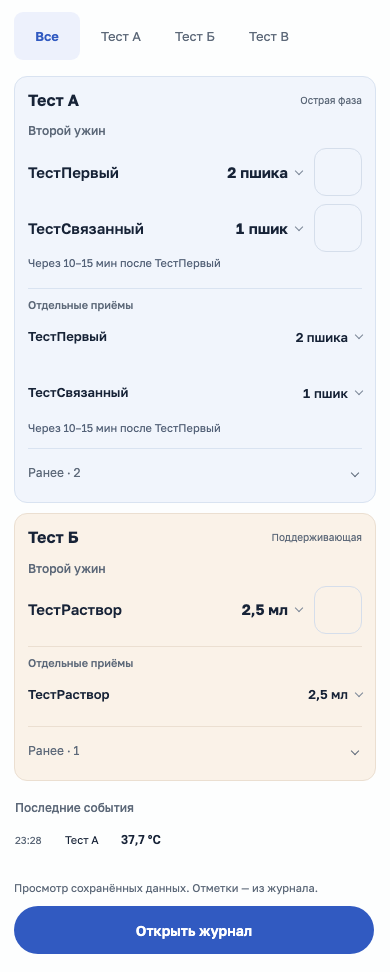
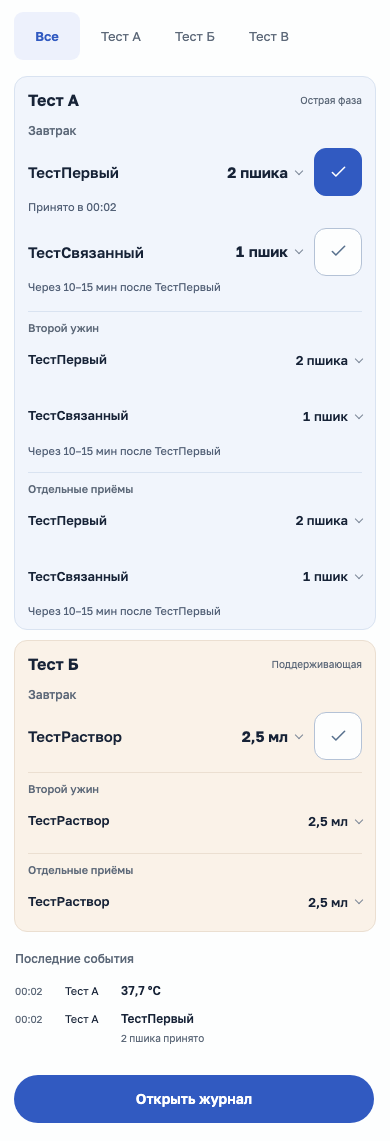
Separate prescription details and enable persistent family intake checkboxes

diff --git a/site/public/family-preview.js b/site/public/family-preview.js
@@ -1,33 +1,61 @@
 import {careDrug,careFamily,escapeHTML as e} from './family-card.js';
 import {familyPreview} from './family-preview-model.js';
-const root=document.querySelector('#family'),timeZone='Europe/Chisinau';
-let token='',model,selected='all',loading=false;
-async function get(path,retry=false){
+const root=document.querySelector('#family'),dialog=document.querySelector('#family-info'),statusNode=document.querySelector('#family-status'),timeZone='Europe/Chisinau';
+let token='',model,selected='all',loading=false,saving=false;
+async function api(path,body=null,retry=false){
   if(!token){const r=await fetch('/api/session');if(!r.ok)throw Error('Не удалось открыть сессию');token=(await r.json()).token;}
-  const r=await fetch('/api'+path,{headers:{'X-Medika-Token':token}});
-  if(r.status===403&&!retry){token='';return get(path,true);}
-  if(!r.ok)throw Error('Не удалось прочитать сохранённые данные');return r.json();
+  let r;try{r=await fetch('/api'+path,{method:body?'POST':'GET',headers:{'X-Medika-Token':token,...(body?{'Content-Type':'application/json'}:{})},...(body?{body:JSON.stringify(body)}:{})});}
+  catch{const error=Error('Нет связи с журналом');error.uncertain=Boolean(body);throw error;}
+  if(r.status===403&&!retry){token='';return api(path,body,true);}
+  let result;try{result=await r.json();}catch{const error=Error('Не удалось получить ответ журнала');error.uncertain=Boolean(body);throw error;}
+  if(!r.ok)throw Error(result.error||'Не удалось обратиться к журналу');return result;
 }
-const rows=(group,later=false)=>group.rows.map(r=>careDrug(r.name,r.dose,r.instruction,{later,after:r.after,readOnly:true,taken:r.taken,status:r.status})).join('');
+const allRows=()=>model?.cards.flatMap(p=>[...(p.current?.rows||[]),...p.later.flatMap(g=>g.rows),...p.earlier.flatMap(g=>g.rows),...p.prn])||[];
+const findRow=key=>allRows().find(r=>r.key===key);
+function message(text){statusNode.textContent=text;clearTimeout(message.timer);message.timer=setTimeout(()=>statusNode.textContent='',7000);}
+const renderRow=(r,later=false)=>careDrug(r.name,r.dose,'',{later,after:r.after,readOnly:!r.canTake||!r.key,taken:r.taken,status:r.status,fields:r.fields,moreId:r.info.fields.length||r.info.notes.length||r.info.source?r.key:'',actionKey:r.canTake?r.key:''});
+const rows=(group,later=false)=>group.rows.map(r=>renderRow(r,later)).join('');
 const laterGroup=group=>`<section class="care-later"><h3>${e(group.label)}</h3>${rows(group,true)}</section>`;
 function card(p){
   const earlier=p.earlier.length?`<details class="care-earlier"><summary>Ранее · ${p.earlier.reduce((n,g)=>n+g.rows.length,0)}</summary>${p.earlier.map(laterGroup).join('')}</details>`:'';
-  return `<section class="care-person color-${p.color}" data-person="${e(p.id)}"><header class="care-person-head"><h2>${e(p.name)}</h2>${p.current||p.prn.length?`<span class="care-phase">${e(p.phase)}</span>`:''}</header>${p.current?`<section class="care-current"><h3 class="care-current-slot">${e(p.current.label)}</h3>${rows(p.current)}</section>${p.later.map(laterGroup).join('')}${earlier}`:'<p class="family-empty">Нет действующих плановых назначений</p>'}${p.prn.length?`<section class="care-later"><h3>По необходимости</h3>${p.prn.map(r=>careDrug(r.name,r.dose,r.instruction,{later:true,readOnly:true})).join('')}</section>`:''}</section>`;
+  return `<section class="care-person color-${p.color}" data-person="${e(p.id)}"><header class="care-person-head"><h2>${e(p.name)}</h2>${p.current||p.prn.length?`<span class="care-phase">${e(p.phase)}</span>`:''}</header>${p.current?`<section class="care-current"><h3 class="care-current-slot">${e(p.current.label)}</h3>${rows(p.current)}</section>${p.later.map(laterGroup).join('')}${earlier}`:'<p class="family-empty">Нет действующих плановых назначений</p>'}${p.prn.length?`<section class="care-later"><h3>По необходимости</h3>${p.prn.map(r=>renderRow(r,true)).join('')}</section>`:''}</section>`;
 }
 function render(focus=false){
   if(!model)return;
   if(!model.cards.some(p=>p.id===selected))selected='all';
   const cards=model.cards.filter(p=>selected==='all'?p.current||p.prn.length:p.id===selected),names=new Map(model.cards.map(p=>[p.id,p.name])),history=model.history.filter(r=>selected==='all'||r.personId===selected).slice(0,8);
-  root.innerHTML=`${careFamily(model.cards,selected)}<main class="care-board"><h1 class="sr-only">Назначения семьи</h1><div class="care-people">${cards.length?cards.map(card).join(''):'<p class="family-empty">Действующих назначений нет</p>'}</div><section class="care-history"><h2>Последние события</h2>${history.length?history.map(r=>`<div class="care-event"><time>${e(r.time)}</time><span>${e(names.get(r.personId)||'')}</span><strong>${e(r.name)}${r.detail?`<small>${e(r.detail)}</small>`:''}</strong></div>`).join(''):'<p class="family-empty">Событий пока нет</p>'}</section></main><footer class="family-preview-footer"><p>Просмотр сохранённых данных. Отметки — из журнала.</p><a class="voice" href="/">Открыть журнал</a></footer>`;
+  root.innerHTML=`${careFamily(model.cards,selected)}<main class="care-board"><h1 class="sr-only">Назначения семьи</h1><div class="care-people">${cards.length?cards.map(card).join(''):'<p class="family-empty">Действующих назначений нет</p>'}</div><section class="care-history"><h2>Последние события</h2>${history.length?history.map(r=>`<div class="care-event"><time>${e(r.time)}</time><span>${e(names.get(r.personId)||'')}</span><strong>${e(r.name)}${r.detail?`<small>${e(r.detail)}</small>`:''}</strong></div>`).join(''):'<p class="family-empty">Событий пока нет</p>'}</section></main><footer class="family-preview-footer"><a class="voice" href="/">Открыть журнал</a></footer>`;
+  root.setAttribute('aria-busy',String(saving));if(saving)root.querySelectorAll('input,button').forEach(input=>input.disabled=true);
   if(focus)[...root.querySelectorAll('[name="care-person"]')].find(input=>input.value===selected)?.focus({preventScroll:true});
 }
+async function refresh(){const now=new Date(),date=now.toLocaleDateString('sv-SE',{timeZone});const [state,schedule]=await Promise.all([api('/state'),api('/schedule?date='+date)]);model=familyPreview(state,schedule,{date,now,timeZone});render();}
+function loadError(text){model=null;root.setAttribute('aria-busy','false');message('');root.innerHTML=`<main class="family-loading" role="alert"><p>${e(text)}</p><button type="button" data-retry>Обновить</button><a href="/">Открыть журнал</a></main>`;}
 async function load(){
-  if(loading)return;loading=true;
-  try{const now=new Date(),date=now.toLocaleDateString('sv-SE',{timeZone});const [state,schedule]=await Promise.all([get('/state'),get('/schedule?date='+date)]);model=familyPreview(state,schedule,{date,now,timeZone});render();}
-  catch(error){root.innerHTML=`<main class="family-loading" role="alert"><p>${e(error.message)}</p><button type="button" data-retry>Повторить</button><a href="/">Открыть журнал</a></main>`;}
+  if(loading||saving)return;loading=true;if(model){root.setAttribute('aria-busy','true');root.querySelectorAll('input,button').forEach(control=>control.disabled=true);}
+  try{await refresh();}
+  catch(error){loadError(error.message);}
   finally{loading=false;}
 }
-root.addEventListener('change',event=>{if(event.target.name==='care-person'){selected=event.target.value;render(true);}});
-root.addEventListener('click',event=>{if(event.target.closest('[data-retry]'))load();});
+async function take(input){
+  const row=findRow(input.dataset.take);if(!row)return;
+  if(saving||loading||!row.canTake){input.checked=row.taken;return;}
+  if(model.date!==new Date().toLocaleDateString('sv-SE',{timeZone})){input.checked=row.taken;await load();message('Расписание обновлено. Выберите приём заново.');return;}
+  const checked=input.checked,key=row.key,occurredAt=new Date().toISOString();saving=true;message('');root.setAttribute('aria-busy','true');root.querySelectorAll('input,button').forEach(control=>control.disabled=true);
+  let error=null;
+  try{if(checked)await api('/events',{rxId:row.rxId,rxVersion:row.rxVersion,key,date:model.date,status:'taken',dose:row.plannedDose,occurredAt});else await api('/events/'+row.eventId+'/void',{version:row.eventVersion,reason:'Отменено на семейной доске'});}
+  catch(e){error=e;}
+  try{await refresh();message(error?(error.uncertain?'Ответ на запись не получен. Состояние обновлено из журнала.':error.message):checked?'Приём отмечен':'Отметка отменена');}
+  catch{loadError('Не удалось обновить журнал. Отметка могла сохраниться — обновите данные перед повтором.');}
+  finally{saving=false;if(model){render();[...root.querySelectorAll('[data-take]')].find(node=>node.dataset.take===key)?.focus({preventScroll:true});}}
+}
+function medicineInfo(key){
+  const row=findRow(key);if(!row)return;
+  const fields=list=>`<dl class="prescription-fields">${list.map(([label,value])=>`<div><dt>${e(label)}</dt><dd>${e(value)}</dd></div>`).join('')}</dl>`;
+  dialog.innerHTML=`<header><h2 id="family-info-title">${e(row.name)}</h2><button type="button" data-close-info autofocus>Закрыть</button></header>${row.info.fields.length?`<section><h3>Данные препарата</h3>${fields(row.info.fields)}</section>`:''}${row.info.notes.length?`<section><h3>Условия назначения</h3>${fields(row.info.notes)}</section>`:''}${row.info.source?`<details class="medicine-source"><summary>Исходная запись врача</summary><p>${e(row.info.source)}</p></details>`:''}`;
+  dialog.showModal();
+}
+dialog.addEventListener('click',event=>{if(event.target.closest('[data-close-info]'))dialog.close();});
+root.addEventListener('change',event=>{if(event.target.name==='care-person'){if(saving)return;selected=event.target.value;render(true);}else if(event.target.matches('[data-take]'))take(event.target);});
+root.addEventListener('click',event=>{if(event.target.closest('[data-retry]'))load();const more=event.target.closest('[data-medicine-info]');if(more&&!saving)medicineInfo(more.dataset.medicineInfo);});
 document.addEventListener('visibilitychange',()=>{if(document.visibilityState==='visible')load();});
 load();

diff --git a/site/public/family-preview-model.js b/site/public/family-preview-model.js
@@ -1,4 +1,5 @@
 import {prescriptionSummary,prescriptionSequence} from './prescription-summary.js';
+import {medicineForms} from './medicine-forms.js';
 
 export const phaseLabel=phase=>({acute:'Острая фаза',prevention:'Поддерживающая'}[phase]||'Фаза не указана');
 export function shortDose(row){
@@ -9,6 +10,12 @@ export function shortDose(row){
 const localDate=(instant,zone)=>new Date(instant).toLocaleDateString('sv-SE',{timeZone:zone});
 const localTime=(instant,zone)=>new Date(instant).toLocaleTimeString('ru-RU',{timeZone:zone,hour:'2-digit',minute:'2-digit'});
 const clock=value=>/^\d{2}:\d{2}$/.test(value||'')?value:'';
+const showDate=value=>value?.split('-').reverse().join('.')||'';
+function prescriptionFields(rx,item,group){
+  const summary=prescriptionSummary(rx),sequence=prescriptionSequence(rx);
+  return [['Доза',shortDose(rx)+(rx.doseScope==='each-nostril'?' в каждую ноздрю':'')],['Кратность',summary.frequency==='Частота не указана'?'':summary.frequency],['Приём',[group.label,item.relation].filter(Boolean).join(' · ')],['Порядок',sequence],['Время',item.anchor==='clock'?clock(item.displayTime)||clock(item.time):''],['Курс',[rx.startDate?`с ${showDate(rx.startDate)}`:'',rx.endDate?`по ${showDate(rx.endDate)}`:''].filter(Boolean).join(' ')]].filter(([,value])=>value);
+}
+function medicineInfo(rx){return {fields:[['Форма',medicineForms[rx.form]?.name||rx.form],['Концентрация',rx.strength],['Способ применения',rx.route]].filter(([,value])=>value),notes:[['Условия',rx.conditions],['Цель',rx.purpose]].filter(([,value])=>value),source:rx.sourceText||''};}
 
 export function familyPreview(state,schedule,{date,now=new Date(),timeZone='Europe/Chisinau'}={}){
   date??=localDate(now,timeZone);
@@ -24,17 +31,18 @@ export function familyPreview(state,schedule,{date,now=new Date(),timeZone='Euro
       const group=groups.get(key),at=clock(item.displayTime)||clock(item.time);
       if(at&&(!group.time||at<group.time))group.time=at;
       const event=item.event,shown=event?.status==='taken'?{...item,name:event.name,dose:event.actualDose||event.dose,unit:event.unit,doseScope:event.doseScope}:item;
-      const full=prescriptionSummary(shown),sequence=prescriptionSequence(rx),exact=anchor==='clock'&&at?`Назначенное время: ${at}`:'';
-      group.rows.push({key:item.key,name:shown.name,dose:shortDose(shown),taken:event?.status==='taken',status:event?({taken:`Принято в ${localTime(event.occurredAt,event.timeZone||timeZone)}`,skipped:'Пропущено',deferred:'Отложено'}[event.status]||''):'',after:sequence||(rx.type==='interval'&&rx.intervalHours?`Каждые ${rx.intervalHours} ч`:''),instruction:[full.dose,item.relation,exact,rx.strength,rx.sourceText,rx.conditions,rx.purpose].filter(Boolean).join('\n')});
+      const sequence=prescriptionSequence(rx),fields=prescriptionFields(rx,item,group);
+      if(event?.status==='taken'&&(String(shown.dose)!==String(rx.dose)||shown.unit!==rx.unit))fields.push(['Фактически',shortDose(shown)]);
+      group.rows.push({key:item.key,rxId:rx.id,rxVersion:rx.version,plannedDose:rx.dose,eventId:event?.id,eventVersion:event?.version,canTake:Boolean(item.key)&&anchor!=='unassigned'&&(!event||event.status==='taken'),name:shown.name,dose:shortDose(shown),taken:event?.status==='taken',status:event?({taken:`Принято в ${localTime(event.occurredAt,event.timeZone||timeZone)}`,skipped:'Пропущено',deferred:'Отложено'}[event.status]||''):'',after:sequence||(rx.type==='interval'&&rx.intervalHours?`Каждые ${rx.intervalHours} ч`:''),fields,info:medicineInfo(rx)});
     }
     const ordered=[...groups.values()].sort((a,b)=>(a.time||'99:99').localeCompare(b.time||'99:99'));
     const nowTime=localTime(now,timeZone);let currentIndex=0;
     // Keep the last started slot visible until the next one begins; no catch-up recommendation.
     for(let i=0;i<ordered.length;i++)if(ordered[i].time&&ordered[i].time<=nowTime)currentIndex=i;
-    const prn=(schedule.prn||[]).filter(r=>r.personId===person.id&&r.confirmed&&!r.archived).map(r=>({name:r.name,dose:shortDose(r),instruction:[prescriptionSummary(r).dose,r.sourceText,r.conditions].filter(Boolean).join('\n')}));
+    const prn=(schedule.prn||[]).filter(r=>r.personId===person.id&&r.confirmed&&!r.archived).map(r=>({key:r.id,rxId:r.id,name:r.name,dose:shortDose(r),fields:prescriptionFields(r,{}, {label:'По необходимости'}),info:medicineInfo(r)}));
     return {id:person.id,name:person.displayName||person.name,phase:phaseLabel(person.carePhase),color:['blue','peach','mint','lilac'][index%4],current:ordered[currentIndex]||null,later:ordered.slice(currentIndex+1),earlier:ordered.slice(0,currentIndex),prn};
   });
   const records=[...(state.activities||[]),...(state.temperatures||[]).map(r=>({...r,kind:'temperature'})),...(state.events||[]).map(r=>({...r,kind:'medication',amount:r.actualDose||r.dose}))];
-  const history=records.filter(r=>r.status!=='void'&&Number.isFinite(Date.parse(r.occurredAt))&&Date.parse(r.occurredAt)<=Number(now)&&localDate(r.occurredAt,r.timeZone||timeZone)===date).sort((a,b)=>b.occurredAt.localeCompare(a.occurredAt)).map(r=>({personId:r.personId,time:localTime(r.occurredAt,r.timeZone||timeZone),name:r.kind==='temperature'?Number(r.celsius).toLocaleString('ru-RU',{minimumFractionDigits:1,maximumFractionDigits:2})+' °C':r.kind==='inhalation'?['Ингаляция',r.name].filter(Boolean).join(' · '):r.name||({diarrhea:'Диарея',vomiting:'Рвота',retching:'Позывы к рвоте',inhalation:'Ингаляция',other:'Событие'}[r.kind]||'Событие'),detail:[r.amount,r.unit,r.status==='skipped'?'Пропущено':r.status==='deferred'?'Отложено':r.kind==='medication'?'принято':''].filter(Boolean).join(' ')}));
+  const history=records.filter(r=>r.status!=='void'&&Number.isFinite(Date.parse(r.occurredAt))&&Date.parse(r.occurredAt)<=Number(now)&&localDate(r.occurredAt,r.timeZone||timeZone)===date).sort((a,b)=>b.occurredAt.localeCompare(a.occurredAt)).map(r=>({personId:r.personId,time:localTime(r.occurredAt,r.timeZone||timeZone),name:r.kind==='temperature'?Number(r.celsius).toLocaleString('ru-RU',{minimumFractionDigits:1,maximumFractionDigits:2})+' °C':r.kind==='inhalation'?['Ингаляция',r.name].filter(Boolean).join(' · '):r.name||({diarrhea:'Диарея',vomiting:'Рвота',retching:'Позывы к рвоте',inhalation:'Ингаляция',other:'Событие'}[r.kind]||'Событие'),detail:[r.amount?shortDose({dose:r.amount,unit:r.unit}):'',r.status==='skipped'?'Пропущено':r.status==='deferred'?'Отложено':r.kind==='medication'?'принято':''].filter(Boolean).join(' ')}));
   return {date,cards,history};
 }

diff --git a/site/public/family-card.js b/site/public/family-card.js
@@ -1,8 +1,9 @@
 export const escapeHTML=value=>String(value??'').replace(/[&<>"']/g,c=>({'&':'&amp;','<':'&lt;','>':'&gt;','"':'&quot;',"'":'&#39;'}[c]));
 const check='<svg viewBox="0 0 24 24" fill="none" stroke="currentColor" stroke-width="1.8" stroke-linecap="round" stroke-linejoin="round" aria-hidden="true"><path d="m5 12 4 4L19 6"/></svg>';
-export function careDrug(name,dose,instruction,{later=false,after='',readOnly=false,taken=false,status=''}={}){
+export function careDrug(name,dose,instruction,{later=false,after='',readOnly=false,taken=false,status='',fields=null,moreId='',actionKey=''}={}){
   const e=escapeHTML;
-  return `<div class="care-med${later?' care-med-later':''}"><details><summary><span class="care-med-name" data-drug-name>${e(name)}</span><strong class="care-dose">${e(dose)}</strong></summary><div class="care-instruction"><span>Назначение</span><p>${e(instruction)}</p></div></details>${later?'':`<label class="care-take${readOnly?' is-readonly':''}"><input type="checkbox" aria-label="${e(name)}: ${readOnly?(taken?'приём записан':'нет отметки в журнале'):'принято в макете'}"${readOnly?' disabled':''}${taken?' checked':''}><span>${check}</span></label>`}${after?`<p class="care-followup">${e(after)}</p>`:''}${status?`<p class="care-followup">${e(status)}</p>`:''}</div>`;
+  const content=fields?`<dl class="prescription-fields">${fields.map(([label,value])=>`<div><dt>${e(label)}</dt><dd>${e(value)}</dd></div>`).join('')}</dl>`:`<span>Назначение</span><p>${e(instruction)}</p>`;
+  return `<div class="care-med${later?' care-med-later':''}"><details><summary><span class="care-med-name" data-drug-name>${e(name)}</span><strong class="care-dose">${e(dose)}</strong></summary><div class="care-instruction">${content}${moreId?`<button type="button" class="medicine-more" data-medicine-info="${e(moreId)}">Препарат и источник</button>`:''}</div></details>${later?'':`<label class="care-take${readOnly?' is-readonly':''}"><input type="checkbox" aria-label="${e(name)}: ${actionKey?'принято':readOnly?(taken?'приём записан':'нет отметки в журнале'):'принято в макете'}"${actionKey?` data-take="${e(actionKey)}"`:''}${readOnly?' disabled':''}${taken?' checked':''}><span>${check}</span></label>`}${after?`<p class="care-followup">${e(after)}</p>`:''}${status?`<p class="care-followup">${e(status)}</p>`:''}</div>`;
 }
 export function careFamily(people=[{id:'alice',name:'Алиса'},{id:'danya',name:'Даня'},{id:'mom',name:'Мама'},{id:'dad',name:'Папа'}],selected='all'){
   return `<form class="care-family"><fieldset><legend class="sr-only">Человек</legend>${[{id:'all',name:'Все'},...people].map(p=>`<label><input class="sr-only" type="radio" name="care-person" value="${escapeHTML(p.id)}"${p.id===selected?' checked':''}><span>${escapeHTML(p.name)}</span></label>`).join('')}</fieldset></form>`;

diff --git a/site/public/design-study.css b/site/public/design-study.css
@@ -134,3 +134,23 @@
 .a1:has(input[value="all"]:checked) .care-person.color-mint{--person-surface:#edf7f3;--person-line:#d7e9df}
 .a1:has(input[value="all"]:checked) .care-person.color-lilac{--person-surface:#f3f1f9;--person-line:#e2ddef}
 @container screen (min-width:700px){.family-preview-footer{padding-left:24px;padding-right:24px}.family-live .care-event{grid-template-columns:48px 58px minmax(0,1fr)}}
+.prescription-fields{margin:0;font-size:13px;line-height:1.5}
+.prescription-fields>div{display:grid;grid-template-columns:86px minmax(0,1fr);gap:12px;padding:5px 0}
+.prescription-fields dt{color:#58687b}
+.prescription-fields dd{margin:0;color:#172337;overflow-wrap:anywhere}
+.medicine-more{min-height:48px;min-width:48px;display:block;margin-top:12px;padding:9px 12px;border:1px solid #cbd5e3;border-radius:8px;background:white;color:#315ac1;font:inherit;cursor:pointer}
+.medicine-more:focus-visible{outline:2px solid #315ac1;outline-offset:3px}
+#family-info{width:min(540px,calc(100% - 28px));max-height:88dvh;overflow:auto;padding:18px;border:1px solid #d1d9e5;border-radius:16px;color:#172337;background:white;font:14px/1.6 Golos,system-ui,sans-serif}
+#family-info::backdrop{background:#17233780}
+#family-info>header{display:flex;justify-content:space-between;align-items:center;gap:16px;margin-bottom:18px}
+#family-info h2{font-size:20px;line-height:1.3;font-weight:600}
+#family-info h3{font-size:14px;font-weight:600;margin-bottom:10px}
+#family-info .prescription-fields>div{grid-template-columns:110px minmax(0,1fr)}
+#family-info :focus-visible{outline:2px solid #315ac1;outline-offset:3px}
+#family-info>section+section{margin-top:18px}
+#family-info button{min-height:48px;min-width:76px;padding:8px 12px;flex-shrink:0;border:1px solid #cbd5e3;border-radius:8px;background:white;color:#315ac1;font:inherit;cursor:pointer}
+.medicine-source{margin-top:18px;border-top:1px solid #dfe5ed}
+.medicine-source>summary{min-height:48px;padding:12px 0;cursor:pointer}
+.medicine-source p{white-space:pre-wrap;overflow-wrap:anywhere;padding:4px 0 12px;color:#485970;font-size:13px}
+#family-status{position:fixed;bottom:max(16px,env(safe-area-inset-bottom));left:16px;right:16px;max-width:560px;margin:auto;z-index:10;background:#172337;color:white;border-radius:10px;padding:12px 16px;font-size:13px;line-height:1.5;pointer-events:none}
+#family-status:empty{display:none}

diff --git a/site/public/family-preview.html b/site/public/family-preview.html
@@ -1,5 +1,5 @@
 <!doctype html>
 <html lang="ru">
 <head><meta charset="utf-8"><meta name="viewport" content="width=device-width,initial-scale=1"><meta name="color-scheme" content="light"><meta name="theme-color" content="#fdfefe"><title>Медика · семья</title><link rel="icon" href="/icon.svg"><link rel="stylesheet" href="/design-study.css"><script src="/family-preview.js" type="module"></script></head>
-<body class="single family-preview"><div id="family" class="mock a1 family-live"><p class="family-loading" role="status">Загружаю назначения…</p></div></body>
+<body class="single family-preview"><div id="family" class="mock a1 family-live"><p class="family-loading" role="status">Загружаю назначения…</p></div><div id="family-status" role="status" aria-live="polite"></div><dialog id="family-info" aria-labelledby="family-info-title"></dialog></body>
 </html>

diff --git a/PROJECT.md b/PROJECT.md
@@ -6,9 +6,12 @@
 
 Отдельные стенды: OCR и шесть вариантов интерфейса — `/playground` (также `/ocr-lab`), голос — `/voice-lab`. Тестовый журнал отделён от клинической базы.
 
-A1 на сохранённых данных семьи — **http://192.168.0.38/family**. Отдельный экран просмотра с фильтрами, текущим и следующими слотами каждого человека, фазой и фактами истории. Использует существующие `/api/state` и `/api/schedule` через защищённую сессию. Отметки доступны только для чтения; для записи есть переход в основной журнал. Будущие, архивные и неподтверждённые курсы не активируются, источник и точные часы отдельного назначения сохранены в раскрытии. Прошедшие слоты доступны в «Ранее», без автоматической отметки «пропущено» и без рекомендации догонять дозу. Записи истории показываются за текущий день и сохраняют собственную дозу/время.
+A1 на сохранённых данных семьи — **http://192.168.0.38/family**. Рабочий семейный экран с фильтрами, слотами каждого человека, фазой и историей. Галочка создаёт фактический приём в общем журнале через `/api/events`; снятие отменяет запись через существующий versioned void API, не удаляя историю. На время запроса действия блокируются. После успеха или ошибки состояние перечитывается; потеря ответа не вызывает автоматическую повторную запись. Версия назначения проверяется перед сохранением, чтобы устаревший экран не записал изменённую дозу. Дополнительные события и голос по-прежнему доступны в основном журнале.
 
-Компонент строки лекарства и фильтров общий с A1: `site/public/family-card.js`. Данные подставляются только в браузере после API-запроса, не записываются в публичный HTML/JS и Git. Тесты используют отдельную временную базу с вымышленными препаратами; реальные данные не попадают в тестовые снимки. Сквозная проверка — `site/scripts/family-preview-canary.mjs`, снимки — `reports/family-preview-synthetic-*.png`, результат — `reports/family-preview-canary.json`. Проверка реального подключения и неизменности базы сохранена приватно в `site/data/family-preview-live-check.json`. Физические устройства не проверены.
+В раскрытии лекарства только структурированное назначение: доза, кратность, слот/еда, порядок, конкретное время и период курса, когда эти поля заполнены. «Препарат и источник» открывает отдельный native dialog: свойства препарата, отдельные условия назначения, затем свёрнутый исходный текст врача. Концентрация отделена от разовой дозы. Будущие, архивные и неподтверждённые курсы не активируются; прошедшие слоты остаются в «Ранее» без автоматической отметки «пропущено».
+
+Компонент строки лекарства и фильтров общий со статичным A1: `site/public/family-card.js`. Реальные значения поступают защищёнными API только в браузер, не подставляются в публичные файлы/Git и QA-скриншоты. Сохранение, отмена, перезагрузка, ошибка 503, потерянный ответ после записи и двойное нажатие проверяются в отдельной временной базе с вымышленными препаратами: `site/scripts/family-preview-canary.mjs`. Отчёт — `reports/family-preview-canary.json`; снимки `family-preview-synthetic-*`, `family-prescription-synthetic-*`, `family-medicine-synthetic-*`. На рабочей базе проверялись только GET/рендер/попап, без автоматических отметок: приватный `site/data/family-journal-actions-live-check.json`. Приватная копия перед включением действий — `site/data/before-family-journal-actions.json`. Физические устройства не проверены.
+
 
 Сравнение дизайна — **http://192.168.0.38/design-study**. Основной вариант A1 v2 — **http://192.168.0.38/design-study/a1**, адаптивный для телефона и iPad. Фильтры, раскрытие подробностей и пробные отметки работают локально; отметка меняет только checkbox на странице и не создаёт запись лечения. Голос — макет, данные вымышлены. В A1 нет даты/«Сегодня» и часов плановых слотов: только еда и явно показанный интервал зависимого лекарства. Сохранены часы фактической истории. У каждого ребёнка несколько лекарств, следующий слот и собственная фаза. На iPad от 700px — две колонки; проверены портрет и альбомная ориентация по размерам браузера. Физический iPad и Safari не проверялись (WebKit не установлен).
 

diff --git a/design-study/BRIEF.md b/design-study/BRIEF.md
@@ -76,3 +76,11 @@
 Отдельная оболочка, не замена основного журнала. Настоящие назначения, дозы, фазы и история приходят из существующих защищённых API; в Git и статические ресурсы медицинские значения не подставляются. Предпросмотр только читает, не создаёт клинических фактов. Общий со статичным A1 модуль `family-card.js` сохраняет правила 48px / 8–12px и раскрытие исходной инструкции. Подтверждённые курсы отбираются по периоду/фазе/пациенту; прошлые записи не пересчитываются по изменённому назначению. Непривязанный приём не превращается в еду. Точные часы отдельного назначения скрыты из краткого списка, сохранены в инструкции; явный интервал виден у связанного лекарства.
 
 Проверка на реальном API показала необходимость нескольких строк и в последующем, и в предыдущем слоте: между ними также добавлены 8px. При измерении закрытых вложенных details учитываются только реально видимые summary, а не скрытые потомки, которым Chromium оставляет layout-rect. Полная проверка охватывает раскрытые предыдущие слоты. Синтетические изображения и данные размещаются только во временной тестовой базе. Подключение к реальной базе проверено без скриншотов и без POST/PUT/DELETE; состояние клинических коллекций до/после совпало. Приватный отчёт хранится в site/data.
+
+## Назначение, информация о препарате и рабочие отметки
+
+Пользователь указал на два ошибочных переноса: раскрытие собирало все исходные поля в один текст, а существующие действия отметки были отключены ради «просмотра». Исправлено на общей строке A1: структурированный список назначения отдельно; форма/концентрация/путь отдельно в dialog; условия врача отдельным разделом; сырой исходник свёрнут. Не добавляется медицинская информация из догадок или нового распознавания.
+
+Чекбокс `/family` подключён к общему журналу: запись, сохранение после reload, отмена без удаления истории. Исходные назначения не меняются. Проверяется версия Rx, поэтому изменившийся план требует обновления, а не молчаливой записи новой дозы. Ошибка/потеря ответа приводит к чтению факта из журнала, не к повторному POST. Автоматизированные записи/отмены выполнялись только в синтетической временной базе; настоящий экран проверялся GET-запросами, открытием/закрытием информации и проверкой доступности чекбоксов.
+
+Минимальный сквозной сценарий прошёл перед проверкой всех размеров. Полный `family-preview-canary` проверяет точного человека/дозу, reload, void с сохранением записи, 503, ответ потерян после commit, два быстрых change, отсутствие дублей и неизменность назначений. Проверены 320/390/768/820/1024, раскрытое назначение, modal, закрытие и 48px / 8px зоны. Время браузера в тесте заморожено на начале сценария, чтобы смена календарного дня не делала тест случайным. Снимки открытых состояний снимаются после окончания временной подсветки касания. Все 54 unit/API-теста, общий canary и исходная галерея A1 прошли.

diff --git a/AGENTS.md b/AGENTS.md
@@ -1,6 +1,6 @@
 # Правила Медики
 
-- `/family` — A1 на реальных данных только для чтения: публична пустая оболочка, назначения/история загружаются защищённым API. Не встраивать снимок реальной базы в HTML/JS/Git; не сохранять реальные данные в QA-скриншоты и отчёты. Отметки показывают факты журнала и заблокированы от пробной записи. Не превращать время отдельного назначения в слот еды из догадки; точное исходное время сохранять в раскрытии.
+- `/family` — рабочий A1 на реальных данных: публична пустая оболочка, назначения/история загружаются защищённым API. Галочка пишет факт только по явному действию пользователя; снятие отменяет запись с сохранением истории. Автоматизированные отметки проверять только во временной синтетической базе. Не встраивать реальную базу в HTML/JS/Git и QA-скриншоты. Не превращать точное время в слот еды из догадки. В раскрытии — структурированное назначение; свойства препарата и исходный текст — в отдельном dialog. Не отключать ранее доступные действия при переносе UI без просьбы пользователя.
 
 - Мобильный дизайн: фактические зоны действий не меньше 48 × 48 CSS px, свободный промежуток между ними не меньше 8px. Раскрытие лекарства и отметка приёма — раздельные действия с промежутком 12px. Обязательны геометрическая проверка и touch-нажатия на центре/краях зон; скриншот не заменяет их. Полные правила и разобранная ошибка A1 v2: `design-study/DESIGN-RULES.md`.
 
